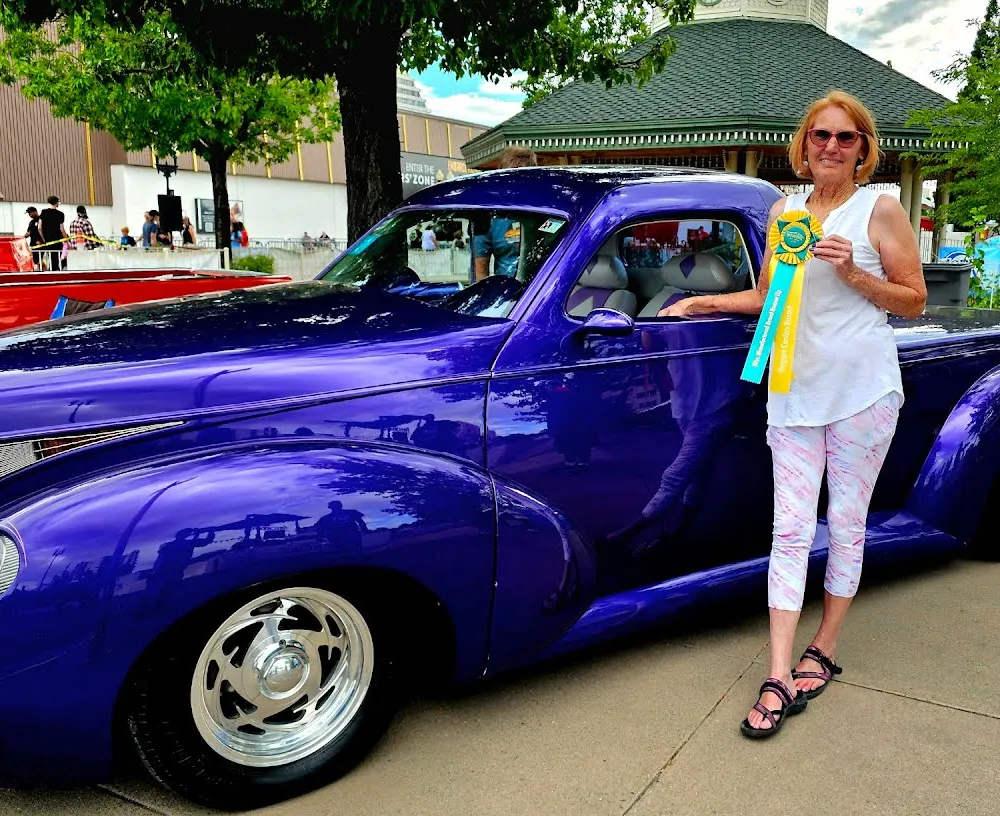
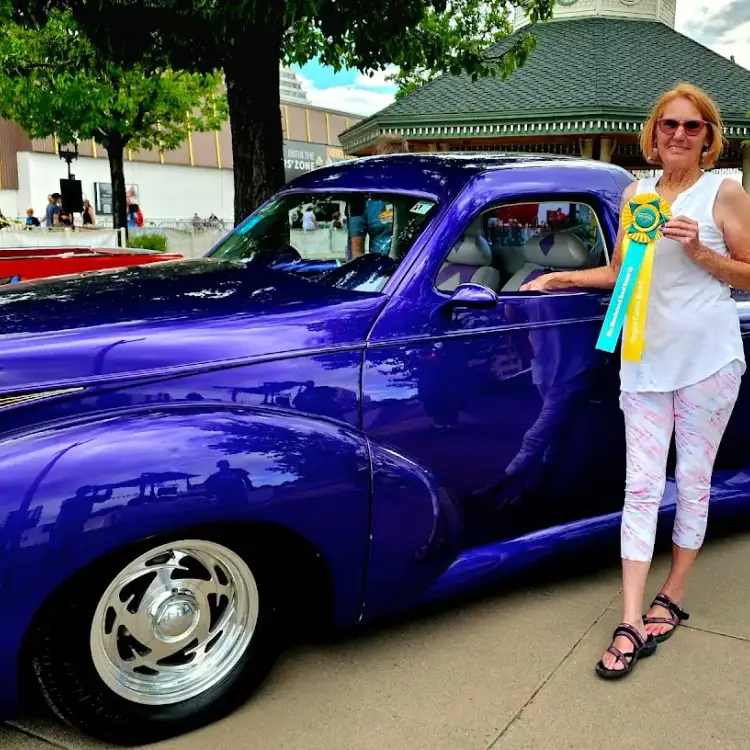
perf: resolve mobile lighthouse warnings (async fonts, lazy routing, image reduction)

diff --git a/src/App.tsx b/src/App.tsx
@@ -1,15 +1,18 @@
+import React, { Suspense } from 'react';
 import { Routes, Route } from 'react-router-dom';
 import Home from './pages/Home';
-import TermsOfService from './pages/TermsOfService';
-import PrivacyPolicy from './pages/PrivacyPolicy';
-import CeramicCoating from './pages/CeramicCoating';
-import PaintCorrection from './pages/PaintCorrection';
-import AutoDetailing from './pages/AutoDetailing';
-import RVDetailing from './pages/RVDetailing';
-import BoatDetailing from './pages/BoatDetailing';
-import BlogHub from './pages/BlogHub';
-import BlogPost from './pages/BlogPost';
-import NotFound from './pages/NotFound';
+
+// Lazy load all subpages to split JavaScript bundles
+const TermsOfService = React.lazy(() => import('./pages/TermsOfService'));
+const PrivacyPolicy = React.lazy(() => import('./pages/PrivacyPolicy'));
+const CeramicCoating = React.lazy(() => import('./pages/CeramicCoating'));
+const PaintCorrection = React.lazy(() => import('./pages/PaintCorrection'));
+const AutoDetailing = React.lazy(() => import('./pages/AutoDetailing'));
+const RVDetailing = React.lazy(() => import('./pages/RVDetailing'));
+const BoatDetailing = React.lazy(() => import('./pages/BoatDetailing'));
+const BlogHub = React.lazy(() => import('./pages/BlogHub'));
+const BlogPost = React.lazy(() => import('./pages/BlogPost'));
+const NotFound = React.lazy(() => import('./pages/NotFound'));
 
 import { ScrollToTop } from './components/ScrollToTop';
 import { BookingProvider } from './context/BookingContext';
@@ -18,19 +21,21 @@ export default function App() {
   return (
     <BookingProvider>
       <ScrollToTop />
-      <Routes>
-        <Route path="/" element={<Home />} />
-        <Route path="/terms" element={<TermsOfService />} />
-        <Route path="/privacy" element={<PrivacyPolicy />} />
-        <Route path="/ceramic-coating-reno-nv" element={<CeramicCoating />} />
-        <Route path="/paint-correction-reno-nv" element={<PaintCorrection />} />
-        <Route path="/auto-detailing-reno-nv" element={<AutoDetailing />} />
-        <Route path="/rv-detailing-reno-nv" element={<RVDetailing />} />
-        <Route path="/boat-detailing-reno-nv" element={<BoatDetailing />} />
-        <Route path="/blog" element={<BlogHub />} />
-        <Route path="/blog/:slug" element={<BlogPost />} />
-        <Route path="*" element={<NotFound />} />
-      </Routes>
+      <Suspense fallback={<div className="min-h-screen bg-don-oat"></div>}>
+        <Routes>
+          <Route path="/" element={<Home />} />
+          <Route path="/terms" element={<TermsOfService />} />
+          <Route path="/privacy" element={<PrivacyPolicy />} />
+          <Route path="/ceramic-coating-reno-nv" element={<CeramicCoating />} />
+          <Route path="/paint-correction-reno-nv" element={<PaintCorrection />} />
+          <Route path="/auto-detailing-reno-nv" element={<AutoDetailing />} />
+          <Route path="/rv-detailing-reno-nv" element={<RVDetailing />} />
+          <Route path="/boat-detailing-reno-nv" element={<BoatDetailing />} />
+          <Route path="/blog" element={<BlogHub />} />
+          <Route path="/blog/:slug" element={<BlogPost />} />
+          <Route path="*" element={<NotFound />} />
+        </Routes>
+      </Suspense>
     </BookingProvider>
   );
 }

diff --git a/index.html b/index.html
@@ -19,8 +19,11 @@
   <!-- Google Fonts (preconnect + non-blocking stylesheet) -->
   <link rel="preconnect" href="https://fonts.googleapis.com" />
   <link rel="preconnect" href="https://fonts.gstatic.com" crossorigin />
-  <link rel="stylesheet"
-    href="https://fonts.googleapis.com/css2?family=Archivo+Black&family=DM+Sans:wght@300;400;500;600;700&display=swap" />
+  <link rel="preload" as="style" href="https://fonts.googleapis.com/css2?family=Archivo+Black&family=DM+Sans:wght@300;400;500;600;700&display=swap" />
+  <link rel="stylesheet" href="https://fonts.googleapis.com/css2?family=Archivo+Black&family=DM+Sans:wght@300;400;500;600;700&display=swap" media="print" onload="this.media='all'" />
+  <noscript>
+    <link rel="stylesheet" href="https://fonts.googleapis.com/css2?family=Archivo+Black&family=DM+Sans:wght@300;400;500;600;700&display=swap" />
+  </noscript>
 
   <!-- Primary SEO -->
   <title>Don of Detail | Mobile Detailing Reno NV</title>